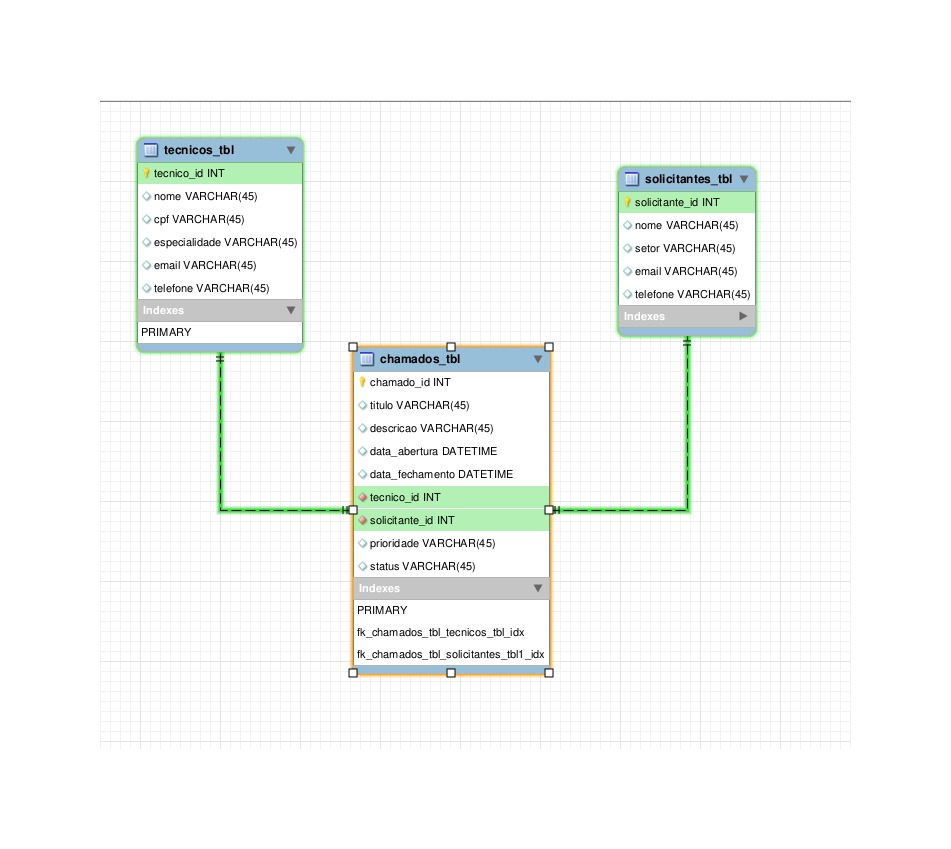
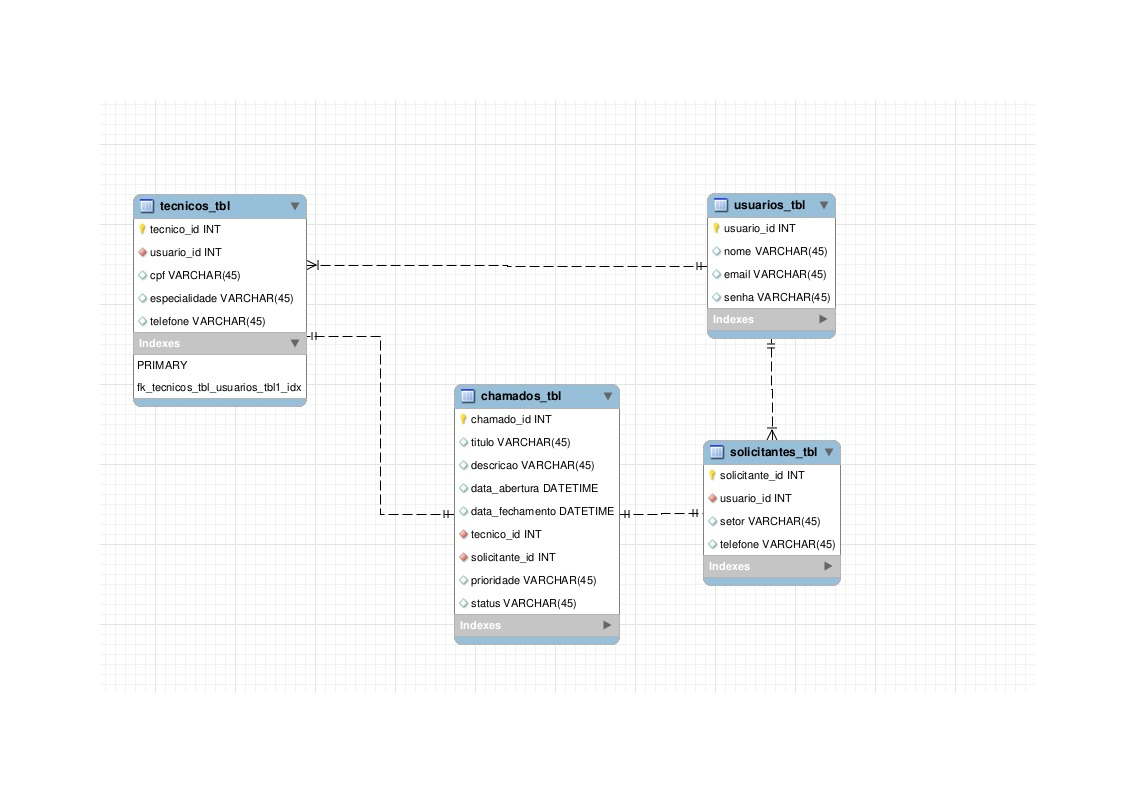
feat: integrar suporte a variáveis de ambiente usando .env e ajustar configuração do banco

Changed region(s): [[0.0915, 0.1513, 0.8233, 0.8172]]

diff --git a/src/main/java/ateneu/sgcti/SgctiApplication.java b/src/main/java/ateneu/sgcti/SgctiApplication.java
@@ -1,5 +1,6 @@
 package ateneu.sgcti;
 
+import io.github.cdimascio.dotenv.Dotenv;
 import org.springframework.boot.SpringApplication;
 import org.springframework.boot.autoconfigure.SpringBootApplication;
 
@@ -7,6 +8,8 @@ import org.springframework.boot.autoconfigure.SpringBootApplication;
 public class SgctiApplication {
 
 	public static void main(String[] args) {
+		Dotenv dotenv = Dotenv.configure().ignoreIfMissing().load();
+		dotenv.entries().forEach(entry -> System.setProperty(entry.getKey(), entry.getValue()));
 		SpringApplication.run(SgctiApplication.class, args);
 	}
 